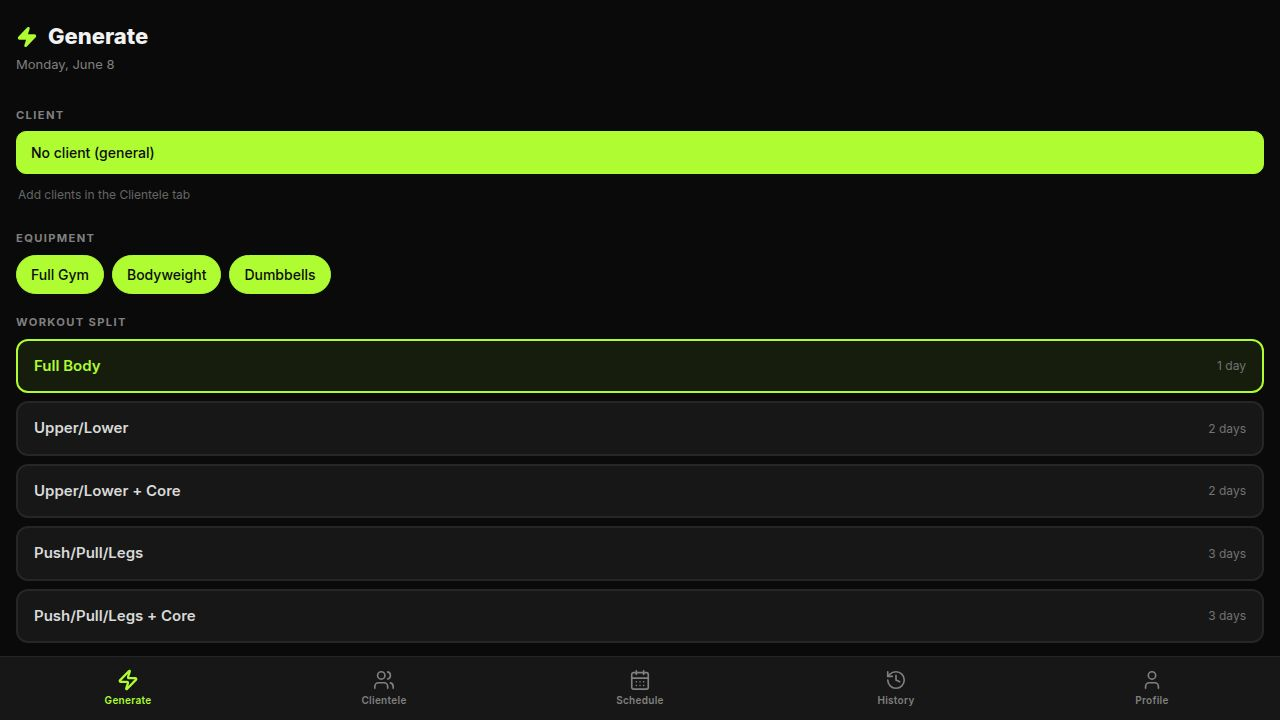
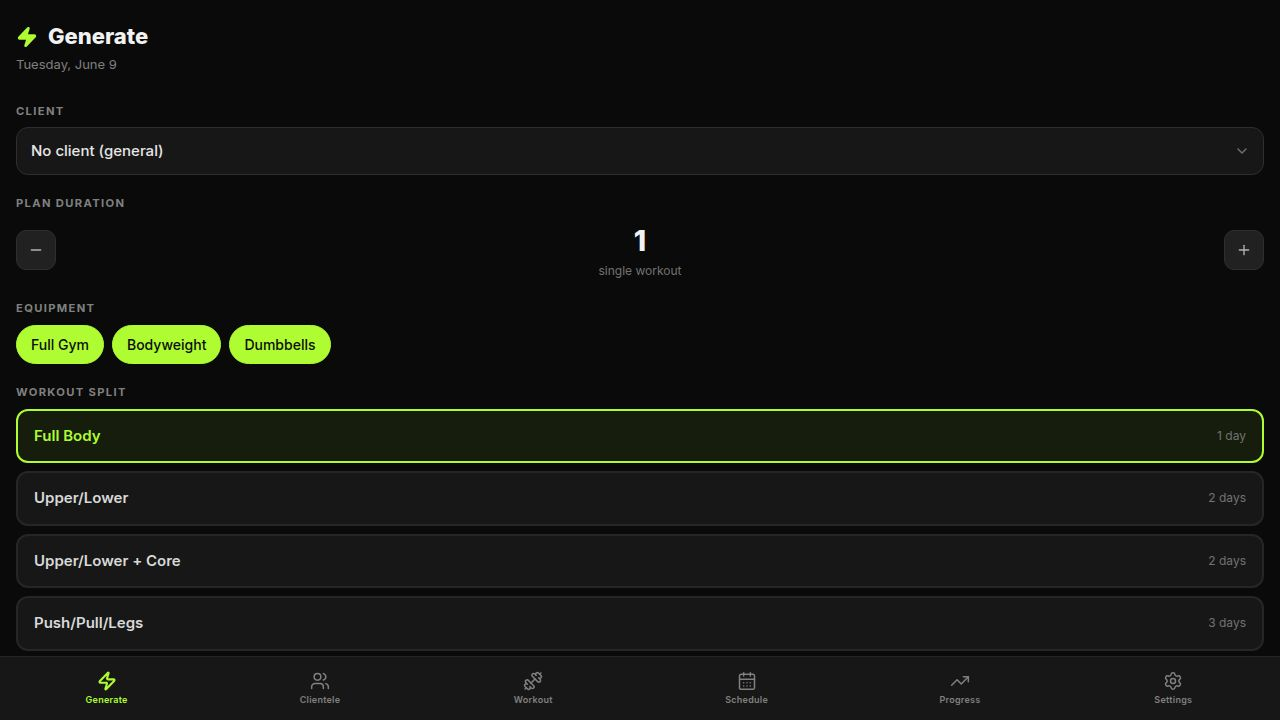
Configure project for static frontend deployment by removing backend dependencies
Integrate `vercel.json` to specify PWA build command, update `vite.config.ts` to conditionally load Replit plugins, and ensure no backend imports remain.

Replit-Commit-Author: Agent
Replit-Commit-Session-Id: fe6721cb-15a1-4a52-a142-97f879565df4
Replit-Commit-Checkpoint-Type: full_checkpoint
Replit-Commit-Event-Id: 93e8a9e6-6565-40ce-b7e7-3dc2cb6add26
Replit-Commit-Screenshot-Url: https://storage.googleapis.com/screenshot-production-us-central1/38aeaab6-eae7-472a-90f2-38368e36a31c/fe6721cb-15a1-4a52-a142-97f879565df4/TWrbKP4
Replit-Helium-Checkpoint-Created: true

diff --git a/artifacts/pwa/vite.config.ts b/artifacts/pwa/vite.config.ts
@@ -2,7 +2,6 @@ import { defineConfig } from "vite";
 import react from "@vitejs/plugin-react";
 import tailwindcss from "@tailwindcss/vite";
 import path from "path";
-import runtimeErrorOverlay from "@replit/vite-plugin-runtime-error-modal";
 
 const rawPort = process.env.PORT;
 const port = rawPort ? Number(rawPort) : 3000;
@@ -12,51 +11,54 @@ if (rawPort && (Number.isNaN(port) || port <= 0)) {
 }
 
 const basePath = process.env.BASE_PATH ?? "/";
+const isReplit = process.env.REPL_ID !== undefined;
+const isDev = process.env.NODE_ENV !== "production";
 
-export default defineConfig({
-  base: basePath,
-  plugins: [
-    react(),
-    tailwindcss(),
-    runtimeErrorOverlay(),
-    ...(process.env.NODE_ENV !== "production" &&
-    process.env.REPL_ID !== undefined
-      ? [
-          await import("@replit/vite-plugin-cartographer").then((m) =>
-            m.cartographer({
-              root: path.resolve(import.meta.dirname, ".."),
-            }),
+export default defineConfig(async () => {
+  const replitPlugins =
+    isReplit && isDev
+      ? await Promise.all([
+          import("@replit/vite-plugin-runtime-error-modal").then((m) =>
+            m.default(),
           ),
-          await import("@replit/vite-plugin-dev-banner").then((m) =>
-            m.devBanner(),
+          import("@replit/vite-plugin-cartographer").then((m) =>
+            m.cartographer({ root: path.resolve(import.meta.dirname, "..") }),
           ),
-        ]
-      : []),
-  ],
-  resolve: {
-    alias: {
-      "@": path.resolve(import.meta.dirname, "src"),
-      "@assets": path.resolve(import.meta.dirname, "..", "..", "attached_assets"),
+          import("@replit/vite-plugin-dev-banner").then((m) => m.devBanner()),
+        ])
+      : [];
+
+  return {
+    base: basePath,
+    plugins: [react(), tailwindcss(), ...replitPlugins],
+    resolve: {
+      alias: {
+        "@": path.resolve(import.meta.dirname, "src"),
+        "@assets": path.resolve(
+          import.meta.dirname,
+          "..",
+          "..",
+          "attached_assets",
+        ),
+      },
+      dedupe: ["react", "react-dom"],
     },
-    dedupe: ["react", "react-dom"],
-  },
-  root: path.resolve(import.meta.dirname),
-  build: {
-    outDir: path.resolve(import.meta.dirname, "dist/public"),
-    emptyOutDir: true,
-  },
-  server: {
-    port,
-    strictPort: true,
-    host: "0.0.0.0",
-    allowedHosts: true,
-    fs: {
-      strict: false,
+    root: path.resolve(import.meta.dirname),
+    build: {
+      outDir: path.resolve(import.meta.dirname, "dist/public"),
+      emptyOutDir: true,
     },
-  },
-  preview: {
-    port,
-    host: "0.0.0.0",
-    allowedHosts: true,
-  },
+    server: {
+      port,
+      strictPort: true,
+      host: "0.0.0.0",
+      allowedHosts: true,
+      fs: { strict: false },
+    },
+    preview: {
+      port,
+      host: "0.0.0.0",
+      allowedHosts: true,
+    },
+  };
 });